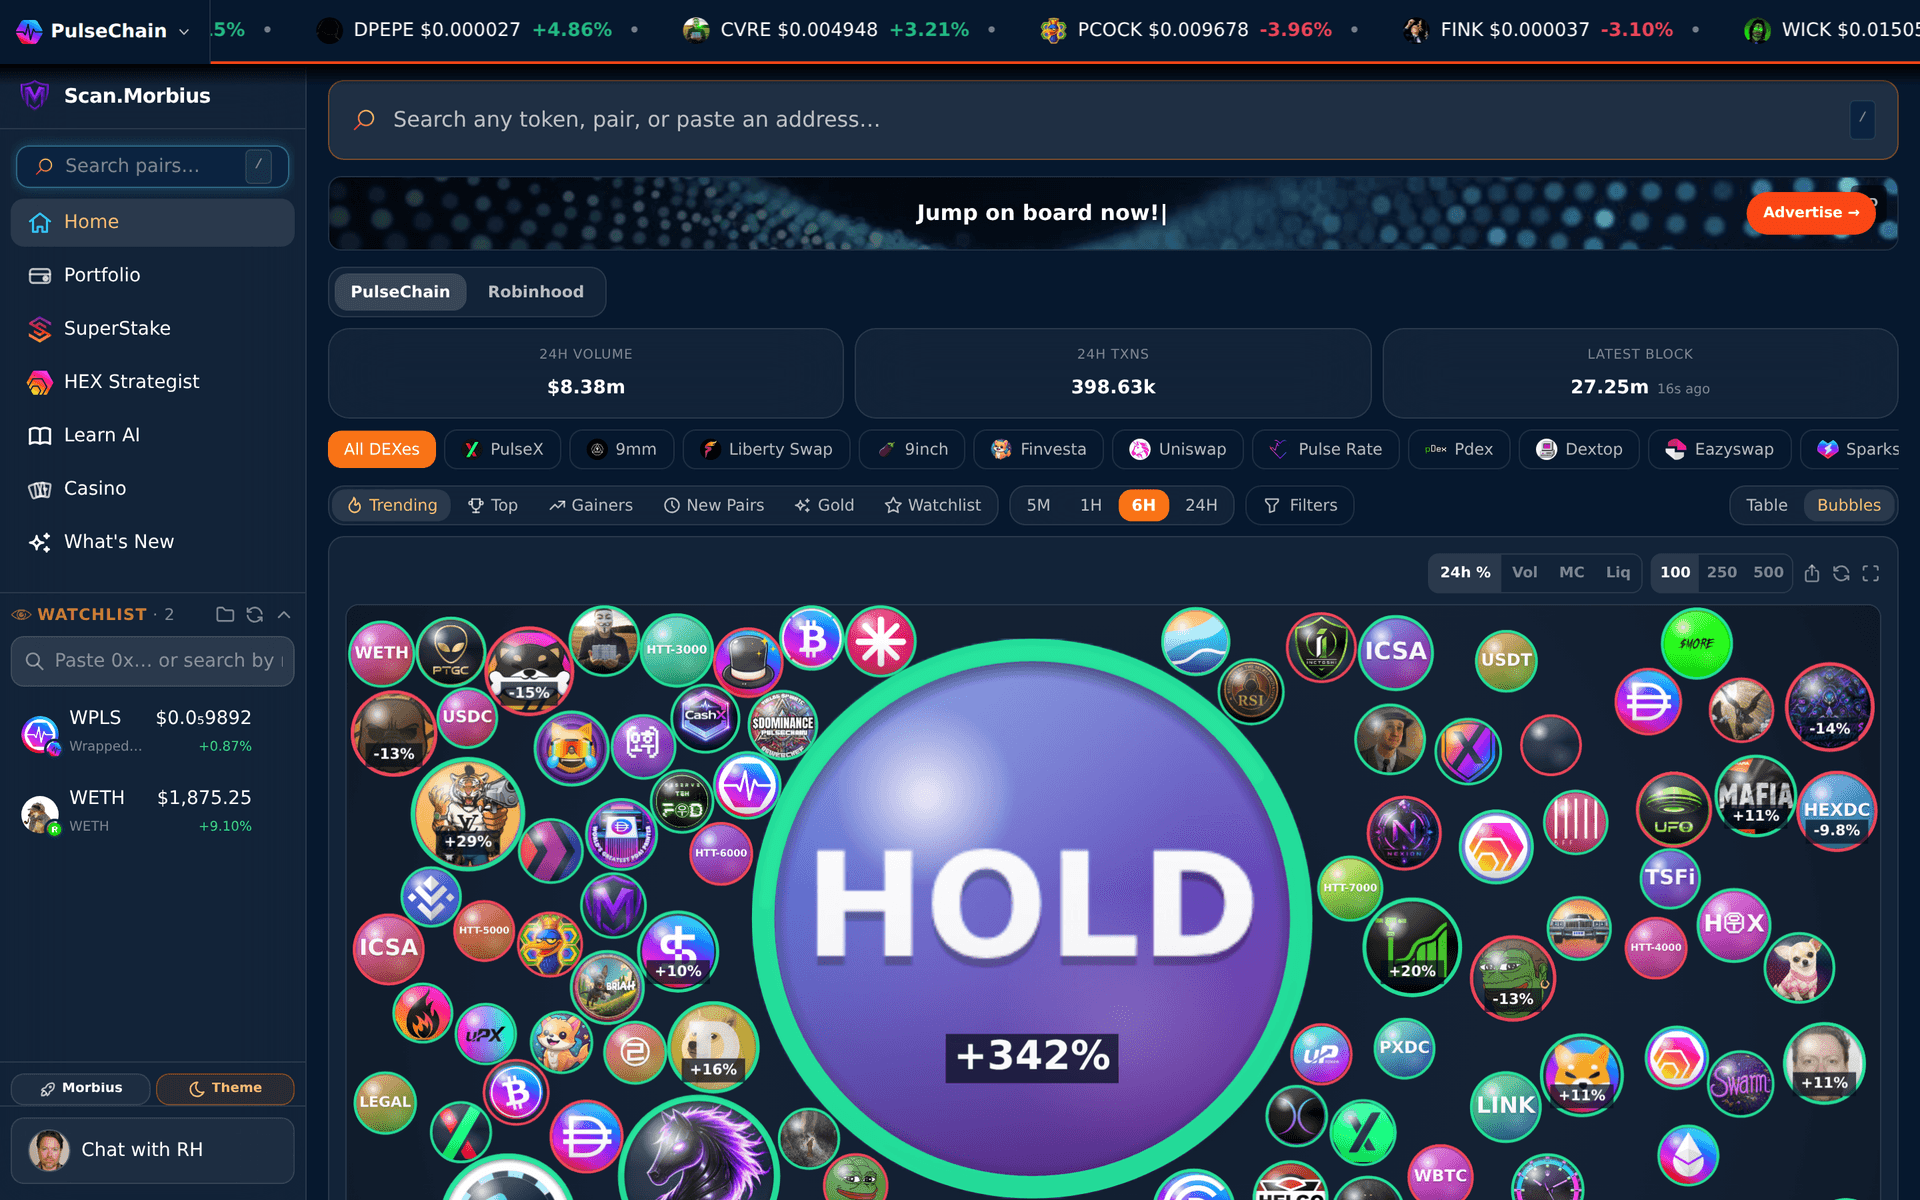
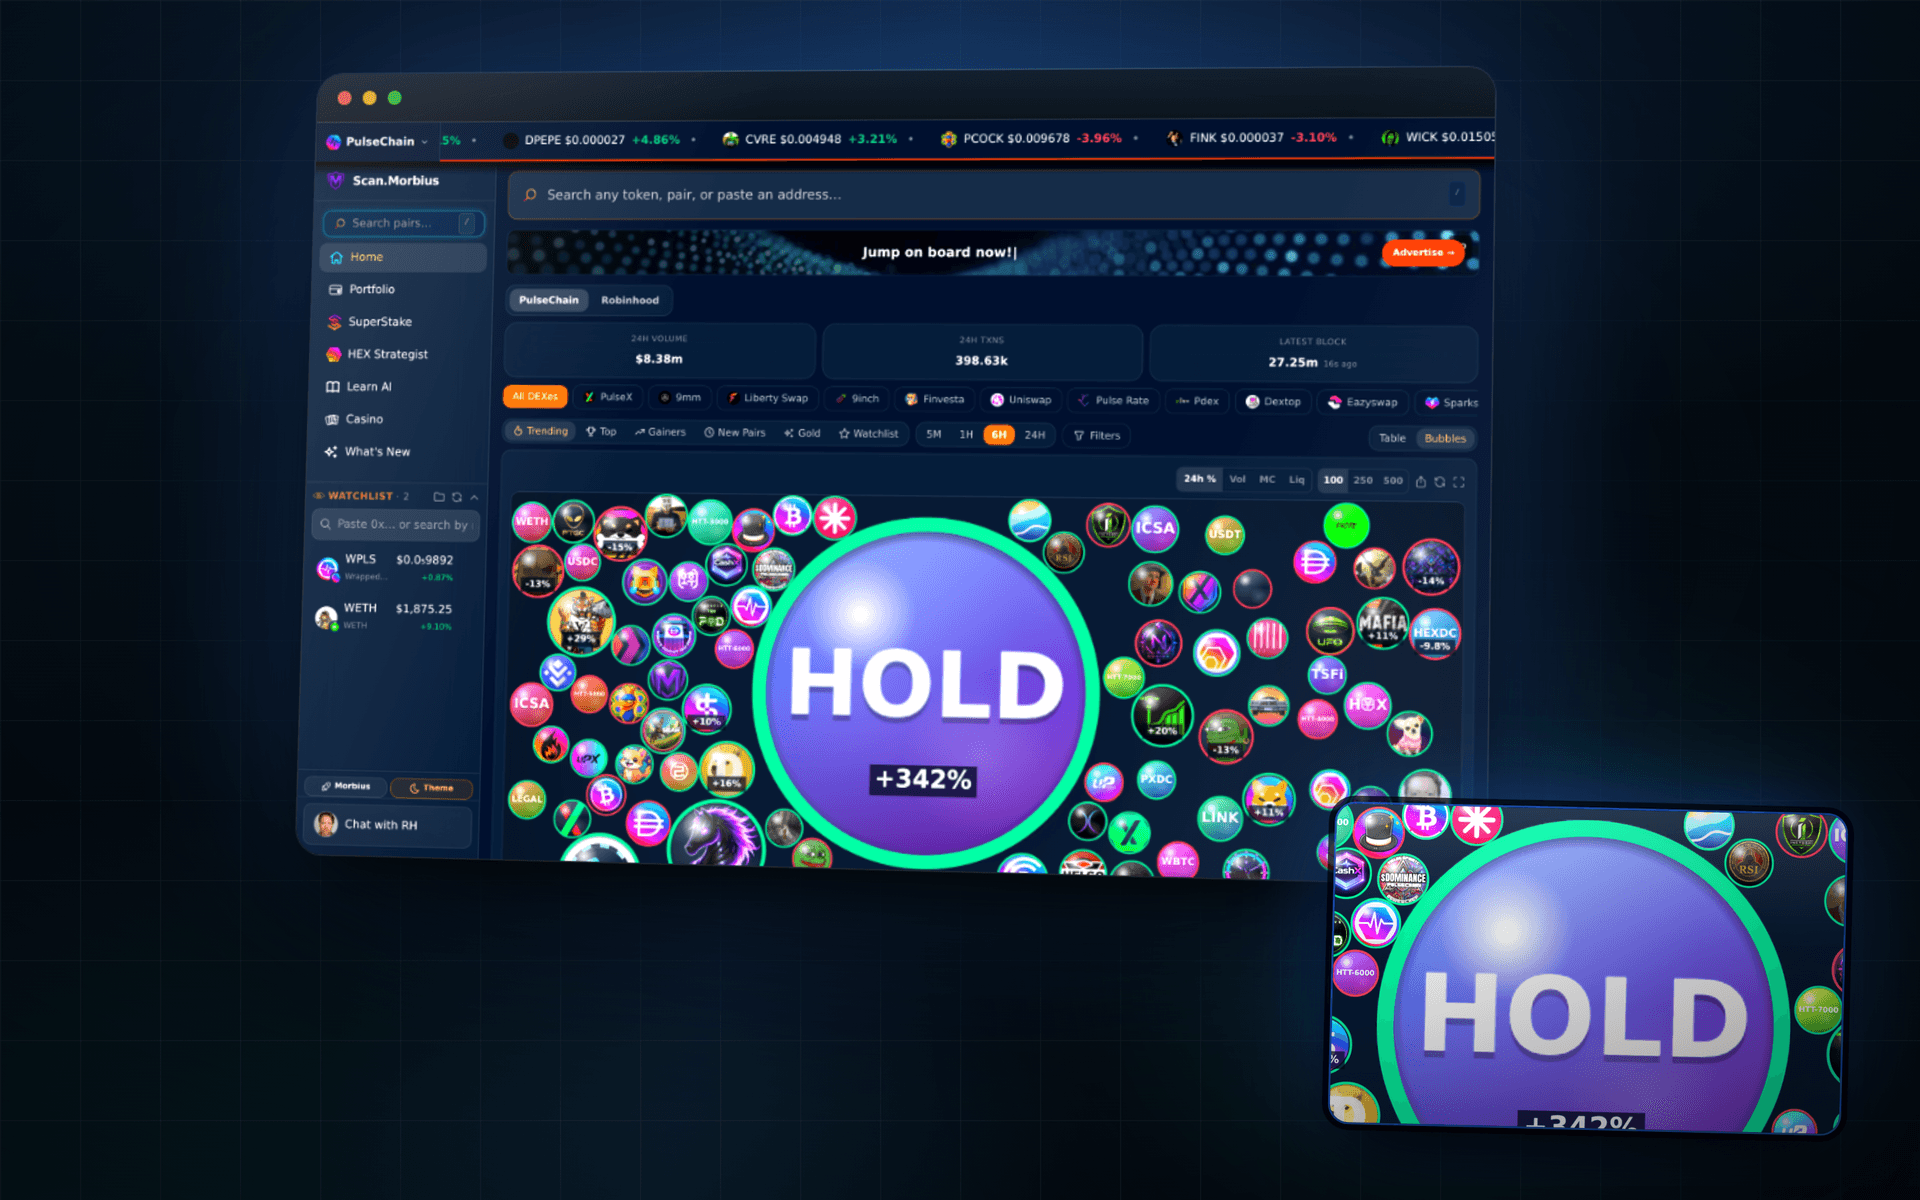
Give the dev log screenshots a promo treatment
Flat screenshots on a flat page read as documentation. These are the same
captures, composed: each sits in a window frame on a backdrop lit in its own
accent — cyan for the tables, gold for VIP and the cashier, violet for the
Weekly Drop and the verifier — leaning on one axis, with a plotted grid, a
raked sheen across the glass, and its own reflection under it.

Seven of the eight carry a zoomed detail pulled forward in the corner: the
chip rack, the MULTIPLAYER cards, the HOLD bubble, the reel grid, the pot and
countdown, the tier badges, the balance and its tabs. Every detail is a crop
of the same capture, so nothing in them is a render that is not in the shot.
The verifier keeps a single clean frame — a text panel does not zoom well.

Sizes land at 316-518KB, up from 158-403KB, for the gradients.

Claude-Session: https://claude.ai/code/session_01XJKVgttBTxKFFUZTeCTLGX

diff --git a/components/DevLog/devlog-entries.tsx b/components/DevLog/devlog-entries.tsx
@@ -20,8 +20,12 @@
  *
  * THE IMAGES are screenshots of the live site rather than illustrations, so a
  * card cannot promise something the app does not show. Each was taken at
- * 1440x900 (2x), cropped past the nav rail to 16:10, and downscaled to
- * 1920x1200. Retake one by visiting the page it came from:
+ * 1440x900 (2x), cropped past the nav rail, then composed as promo art: the
+ * capture set in a window frame on a lit backdrop in its own accent colour,
+ * leaning on one axis, with a zoomed detail of the same capture pulled forward
+ * — the detail is a crop of the shot, never a separate render. Output is
+ * 1920x1200, the 16/10 both /devlog and the splash lay out. Retake one by
+ * visiting the page it came from:
  *
  *  01-multiplayer    /craps — the table, mid come-out roll
  *  02-new-games      / — the floor grid, scrolled to the NEW/MULTIPLAYER rows
